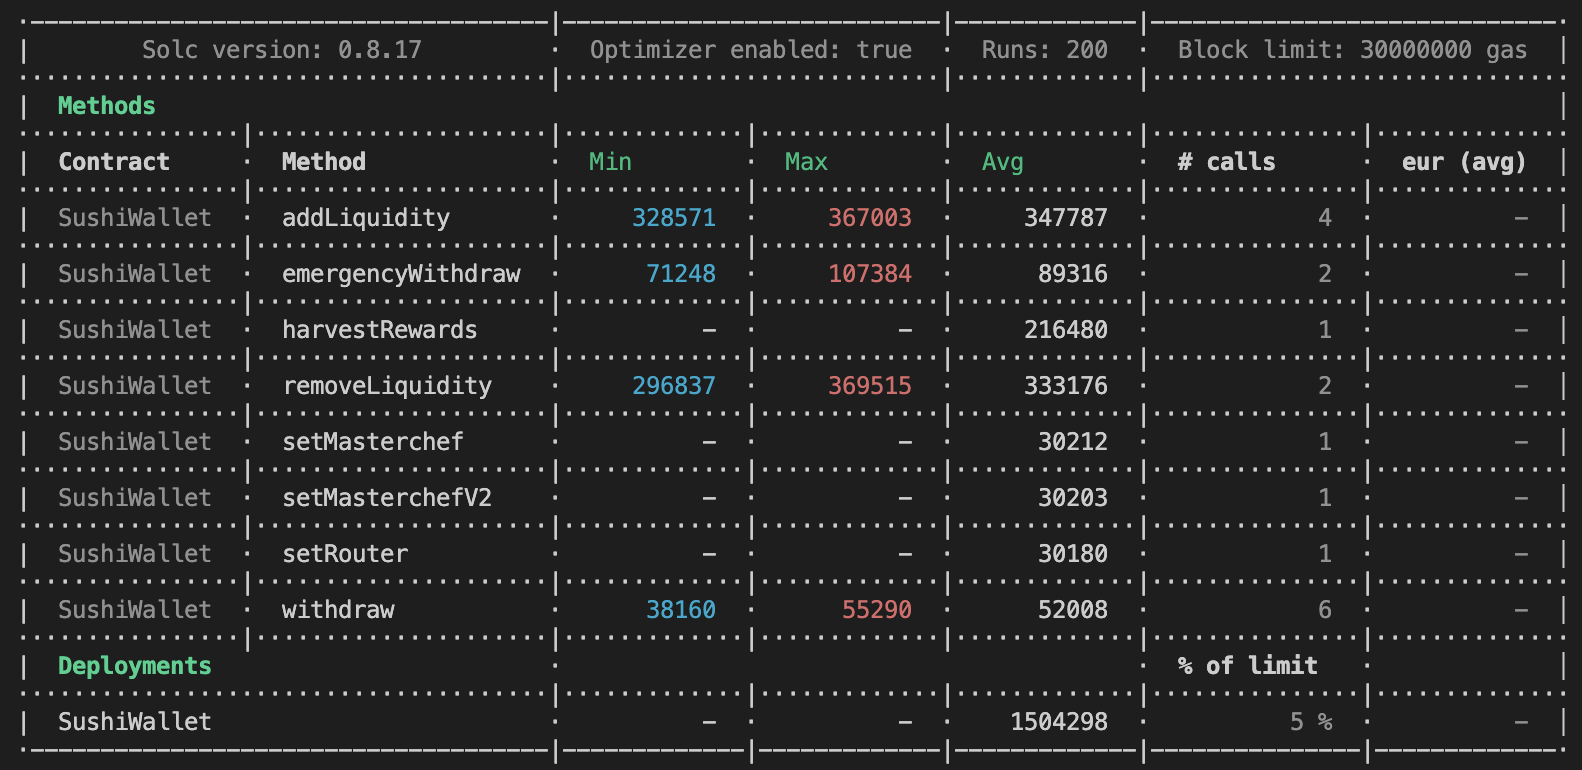
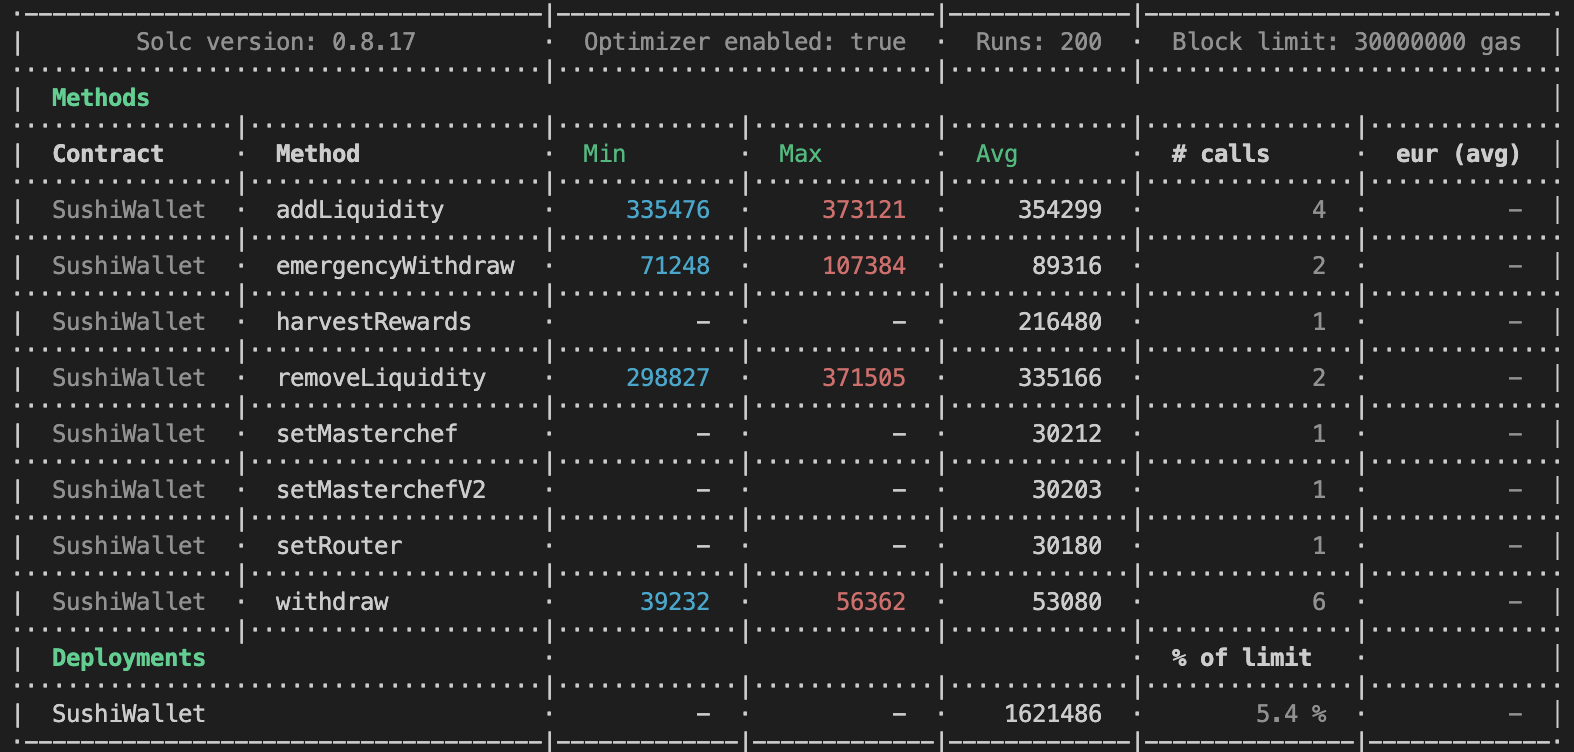
Update gas report image and readme.md

diff --git a/README.md b/README.md
@@ -30,6 +30,10 @@ This smart contract offers the following features:
 * Withdrawal of funds, emergency withdrawals, and harvesting of rewards.
 * The owner has the authority to change the addresses of the router, MasterChef, and MasterChefV2.
 
+## Gas Report 
+
+![image from gas report ](gas_report.png)
+
 ## Tooling
 
 * Hardhat
